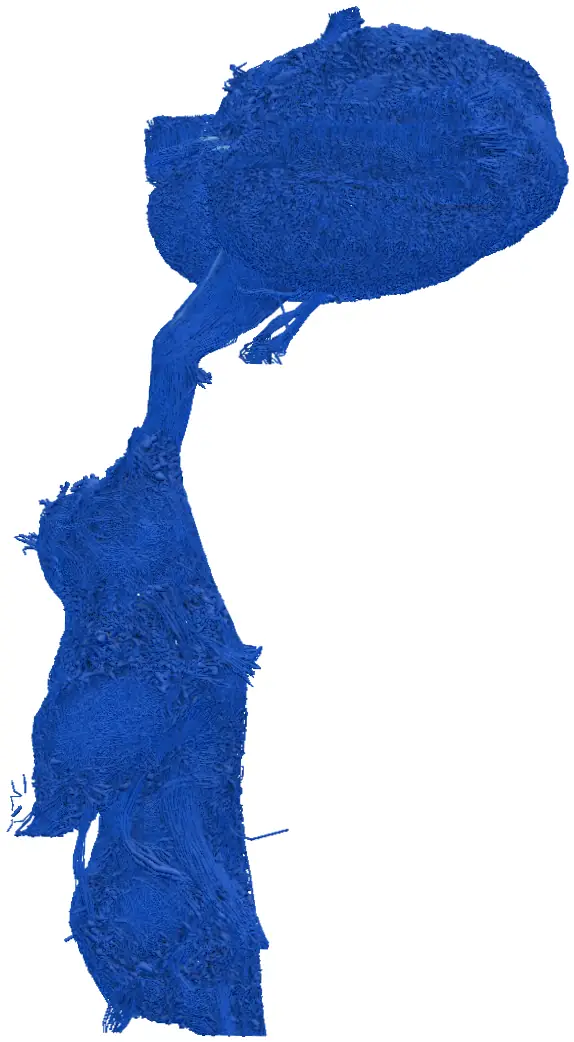
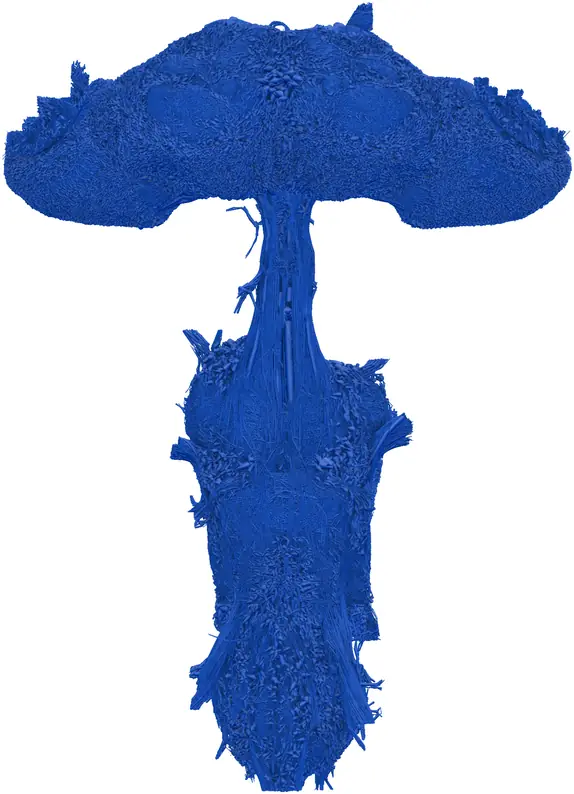
Landing: the brains as images on every screen
No live views over the landing: about 500 kB on a large screen against 31 MB of packs, and in under a second. The
Explore backdrop is the same image. The Walking Fly demo keeps its live view, and the slides from Microcircuit on theirs.

diff --git a/src/ui/segments/project/brains-walkthrough/floating-model.tsx b/src/ui/segments/project/brains-walkthrough/floating-model.tsx
@@ -5,16 +5,10 @@ import { useCallback, useEffect, useMemo, useRef, useState } from 'react';
 import { ViewOverlay } from '@/features/viewer-3d/bare';
 import { ModelView } from '@/ui/segments/project/models/model-views';
 import { PackView } from '@/ui/segments/project/models/pack-view';
-import { FLY_PACK, L6_PACK } from '@/ui/segments/project/models/repo-packs';
+import { FLY_PACK } from '@/ui/segments/project/models/repo-packs';
 import { cn } from '@/utils/css-class';
 
-import {
-  CNS_FRAME,
-  CNS_ON_FIRST_SCREEN,
-  FLY_FRAME,
-  L6_COLOR,
-  L6_FRAME,
-} from './brains';
+import { CNS_FRAME, CNS_ON_FIRST_SCREEN, FLY_FRAME } from './brains';
 import styles from './floating-model.module.css';
 import { NeuronSkeleton } from './neuron-skeleton';
 import grid from './opening-grid.module.css';
@@ -136,28 +130,51 @@ const GLIDE = 'transform 1000ms cubic-bezier(0.65, 0, 0.35, 1), opacity 0.6s eas
 const driftIn = (ms: number) => `transform 20s cubic-bezier(0.2, 0.55, 0.3, 1) ${ms}ms`;
 
 /**
- * Where the landing's brains are images, not live views: a phone, or anything small held upright. Their packs are 31 MB
- * together, and the landing stays until they are built, which on a phone's connection could be a minute or more. Asked
- * once, in the browser: what floats over the page only mounts there.
+ * The landing's brains are images, not live views: nobody needs to turn them, and the views' packs are 31 MB together,
+ * which the landing would stay for. Made by harness/phone_stills in the group, from those views, turning.
  */
-const STILLS_WHERE =
-  '(max-width: 63.999rem) and (orientation: portrait), (max-width: 63.999rem) and (pointer: coarse)';
-function useStills(): boolean {
-  const [stills] = useState(() => window.matchMedia(STILLS_WHERE).matches);
-  return stills;
-}
+const stillSet = (name: string, small: number, large: number) =>
+  `/images/start/walkthrough/${name}.webp ${small}w, /images/start/walkthrough/${name}-large.webp ${large}w`;
+const L6_SET = stillSet('landing-microcircuit', 970, 1796);
+const CNS_SET = stillSet('landing-male-cns', 574, 1148);
 
-/** A brain as an image, from harness/phone_stills in the group; built once it is in, for the intro to start with it. */
-const stillView = (src: string) =>
+/** A brain as an image at `at` in its box, across `sizes` of the page; built once it is in, for the intro to start with it. */
+const stillView = (set: string, sizes: string, at: CSSProperties) =>
   function StillView(_started: boolean, onBuilt: () => void) {
     return (
-      // eslint-disable-next-line @next/next/no-img-element -- Made to size, and its load is what the intro waits for.
-      <img src={src} alt="" draggable={false} onLoad={onBuilt} onError={onBuilt} className="size-full object-contain" />
+      <div className="relative size-full">
+        {/* eslint-disable-next-line @next/next/no-img-element -- Made to size, and its load is what the intro waits for. */}
+        <img
+          srcSet={set}
+          sizes={sizes}
+          alt=""
+          draggable={false}
+          onLoad={onBuilt}
+          onError={onBuilt}
+          className="absolute object-contain"
+          style={at}
+        />
+      </div>
     );
   };
-const L6_STILL = stillView('/images/start/walkthrough/landing-microcircuit.webp');
-const CNS_STILL = stillView('/images/start/walkthrough/landing-male-cns.webp');
-/** The images' way in: the landing is on a phone a little while, and they cost nothing to wait for. */
+const WHOLE_BOX: CSSProperties = { left: 0, top: 0, width: '100%', height: '100%' };
+/** Where each was in the square of the view it was made from, tilted as it was: on a large screen, that same square. */
+const L6_IN_VIEW: CSSProperties = { left: '15.18%', top: '18.21%', width: '64.14%', height: '71.71%' };
+const CNS_IN_VIEW: CSSProperties = { left: '22.18%', top: '11.29%', width: '53.64%', height: '74.29%' };
+const L6_STILL = stillView(L6_SET, '93vh', L6_IN_VIEW);
+const CNS_STILL = stillView(CNS_SET, '48vh', CNS_IN_VIEW);
+const L6_STILL_PHONE = stillView(L6_SET, '95vw', WHOLE_BOX);
+const CNS_STILL_PHONE = stillView(CNS_SET, '50vw', WHOLE_BOX);
+
+/** A phone, or anything small held upright, where the images have places of their own. Asked once, in the browser: what floats over the page only mounts there. */
+const SMALL_SCREEN =
+  '(max-width: 63.999rem) and (orientation: portrait), (max-width: 63.999rem) and (pointer: coarse)';
+function useSmallScreen(): boolean {
+  const [small] = useState(() => window.matchMedia(SMALL_SCREEN).matches);
+  return small;
+}
+
+/** The images' way in on a phone, where the landing is on a little while. */
 const STILL_IN = 'transform 6s cubic-bezier(0.2, 0.55, 0.3, 1)';
 const L6_STILL_MOVES: Moves = { ...L6_MOVES, off: { transform: 'translate(-60%, -60%)', opacity: 1 } };
 const CNS_STILL_MOVES: Moves = {
@@ -300,30 +317,6 @@ function Floating({
     </div>
   );
 }
-
-/** Made-up activity for the microcircuit: bursts of a cell and its 50 nearest neighbours, a second or so apart. */
-const L6_ACTIVITY = '/static/walkthrough/l6-activity.json';
-
-/** The microcircuit, pink, its local groups lighting up in turn, once the activity is in. */
-function ActiveMicrocircuit({ started, onBuilt }: { started: boolean; onBuilt: () => void }) {
-  const flashes = useActivity(L6_ACTIVITY);
-  // As large as in a box of 93vh x 133vh at 1.15: the frame's box, 2617 x 3366 um across the view, fills the
-  // square's height rather than that box's width.
-  return (
-    <FlashingCircuit
-      started={started}
-      onBuilt={onBuilt}
-      color={L6_COLOR}
-      frame={L6_FRAME}
-      frameZoom={0.95}
-      pack={L6_PACK}
-      flashes={flashes}
-    />
-  );
-}
-const L6_VIEW = (started: boolean, onBuilt: () => void) => (
-  <ActiveMicrocircuit started={started} onBuilt={onBuilt} />
-);
 
 /** Activity the app serves, `{cells, times, ms}`, as spikes to replay, once it is in. */
 function useActivity(url: string): CircuitSpikes | null {
@@ -530,27 +523,23 @@ const FLY_VIEW = (started: boolean, onBuilt: () => void) => (
   />
 );
 /**
- * The male fly's whole central nervous system, its surface's neurons, over the whole page behind the words and
- * recording of the screen `at`, faint, turning there. It is read unseen and still on the screen before, to be drawn
- * by the time its own comes, and let go of past the screen after; the viewer's word that it is loading is not shown.
- * Not where the landing's brains are images: faint behind a video, it is not worth its pack on a phone.
+ * The male fly's whole central nervous system over the whole page behind the words and recording of the screen `at`,
+ * faint, in place by the time its own comes. Not on a phone: behind a video there, it would only be in the way.
  */
 export function CnsBackdrop({ chapter, at }: FloatingState & { at: number }) {
-  const stills = useStills();
-  if (stills || chapter < at - 1 || chapter > at + 1) return null;
-  const on = chapter === at;
+  const small = useSmallScreen();
+  if (small || chapter < at - 1 || chapter > at + 1) return null;
   return (
     <div
       aria-hidden
       inert
       className={cn(
-        'pointer-events-none fixed inset-0 z-0 transition-opacity duration-1000 ease-out [&_[data-testid=visualization-loading]]:hidden',
-        on ? 'opacity-40' : 'opacity-0'
+        'pointer-events-none fixed inset-0 z-0 flex items-center justify-center transition-opacity duration-1000 ease-out',
+        chapter === at ? 'opacity-40' : 'opacity-0'
       )}
     >
-      <ViewOverlay frame={CNS_FRAME} render={NOTHING_OVER} detailPixels={DETAIL_PIXELS}>
-        <PackView pack={CNS_PACK} color={FLY_BLUE} frameZoom={0.85} spin={on} />
-      </ViewOverlay>
+      {/* eslint-disable-next-line @next/next/no-img-element -- Made to size. */}
+      <img srcSet={CNS_SET} sizes="62vh" alt="" className="h-[85%] w-auto object-contain" />
     </div>
   );
 }
@@ -650,13 +639,12 @@ const MOUSE_VIEW = (_started: boolean, onBuilt: () => void) => (
 );
 
 /**
- * The pink cortical microcircuit over the landing, turning in its own 3D view about its column, shaded as
- * it turns, and tilted 40 degrees across the top left corner: in from out of that corner once built,
- * taller than the screen, and back into it as the first screen is entered.
+ * The pink cortical microcircuit over the landing, tilted 40 degrees across the top left corner: in from out of that
+ * corner once its image is in, taller than the screen, and back into it as the first screen is entered.
  */
 export function FloatingMicrocircuit(state: FloatingState) {
-  const stills = useStills();
-  if (stills) {
+  const small = useSmallScreen();
+  if (small) {
     return (
       <Floating
         {...state}
@@ -665,8 +653,8 @@ export function FloatingMicrocircuit(state: FloatingState) {
         firstIn={STILL_IN}
         turnsOverLanding={false}
         // Across the top left corner, as the live one is, its ends running off the two edges.
-        className="top-[calc(var(--still)*-0.32)] left-[calc(var(--still)*-0.37)] h-[calc(var(--still)*1.089)] w-(--still) [--still:min(95vw,calc(var(--chapter-h)*0.44))] squat:[--still:calc(var(--chapter-h)*0.9)]"
-        view={L6_STILL}
+        className="top-[calc(var(--still)*-0.32)] left-[calc(var(--still)*-0.37)] h-[calc(var(--still)*1.118)] w-(--still) [--still:min(95vw,calc(var(--chapter-h)*0.44))] squat:[--still:calc(var(--chapter-h)*0.9)]"
+        view={L6_STILL_PHONE}
       />
     );
   }
@@ -675,11 +663,10 @@ export function FloatingMicrocircuit(state: FloatingState) {
       {...state}
       on="landing"
       moves={L6_MOVES}
-      // A square sized by the height alone, so the column keeps its shape and, turned by hand, never meets
-      // its view's edges; its middle near the top left corner, clear of the landing's words.
+      turnsOverLanding={false}
+      // A square sized by the height alone; its middle near the top left corner, clear of the landing's words.
       className="top-[-62.5vh] left-[calc(8vw-72.5vh)] h-[145vh] w-[145vh]"
-      tilt={40}
-      view={L6_VIEW}
+      view={L6_STILL}
     />
   );
 }
@@ -725,7 +712,7 @@ export function FloatingMaleCns({
   walking: boolean;
 }) {
   const { entered } = state;
-  const stills = useStills();
+  const small = useSmallScreen();
   const view = useCallback(
     (started: boolean, onBuilt: () => void) =>
       walking ? (
@@ -735,7 +722,7 @@ export function FloatingMaleCns({
       ),
     [walking, entered]
   );
-  if (stills) {
+  if (small) {
     return (
       <Floating
         {...state}
@@ -745,7 +732,21 @@ export function FloatingMaleCns({
         turnsOverLanding={false}
         // On its side, under the landing's words, in from the right, where its nerve cord's cut end runs off the page.
         tilt={-82}
-        className="top-[calc(var(--chapter-h)*0.745-var(--cns)*0.5)] left-[calc(100vw-var(--cns)*0.6555)] h-(--cns) w-[calc(var(--cns)*0.551)] [--cns:min(77vw,calc(var(--chapter-h)*0.34))] squat:top-[calc(var(--chapter-h)*0.6-var(--cns)*0.5)] squat:[--cns:calc(var(--chapter-h)*0.55)]"
+        className="top-[calc(var(--chapter-h)*0.745-var(--cns)*0.5)] left-[calc(100vw-var(--cns)*0.741)] h-(--cns) w-[calc(var(--cns)*0.722)] [--cns:min(70vw,calc(var(--chapter-h)*0.3))] squat:top-[calc(var(--chapter-h)*0.6-var(--cns)*0.5)] squat:[--cns:calc(var(--chapter-h)*0.5)]"
+        view={CNS_STILL_PHONE}
+      />
+    );
+  }
+  if (!walking && !CNS_ON_FIRST_SCREEN) {
+    return (
+      <Floating
+        {...state}
+        on="landing"
+        moves={CNS_LANDING_MOVES}
+        turnsOverLanding={false}
+        // In the bottom right corner, as the old live view's square was.
+        className={cn(grid.grid, grid.cns)}
+        drift={CNS_DRIFT}
         view={CNS_STILL}
       />
     );
